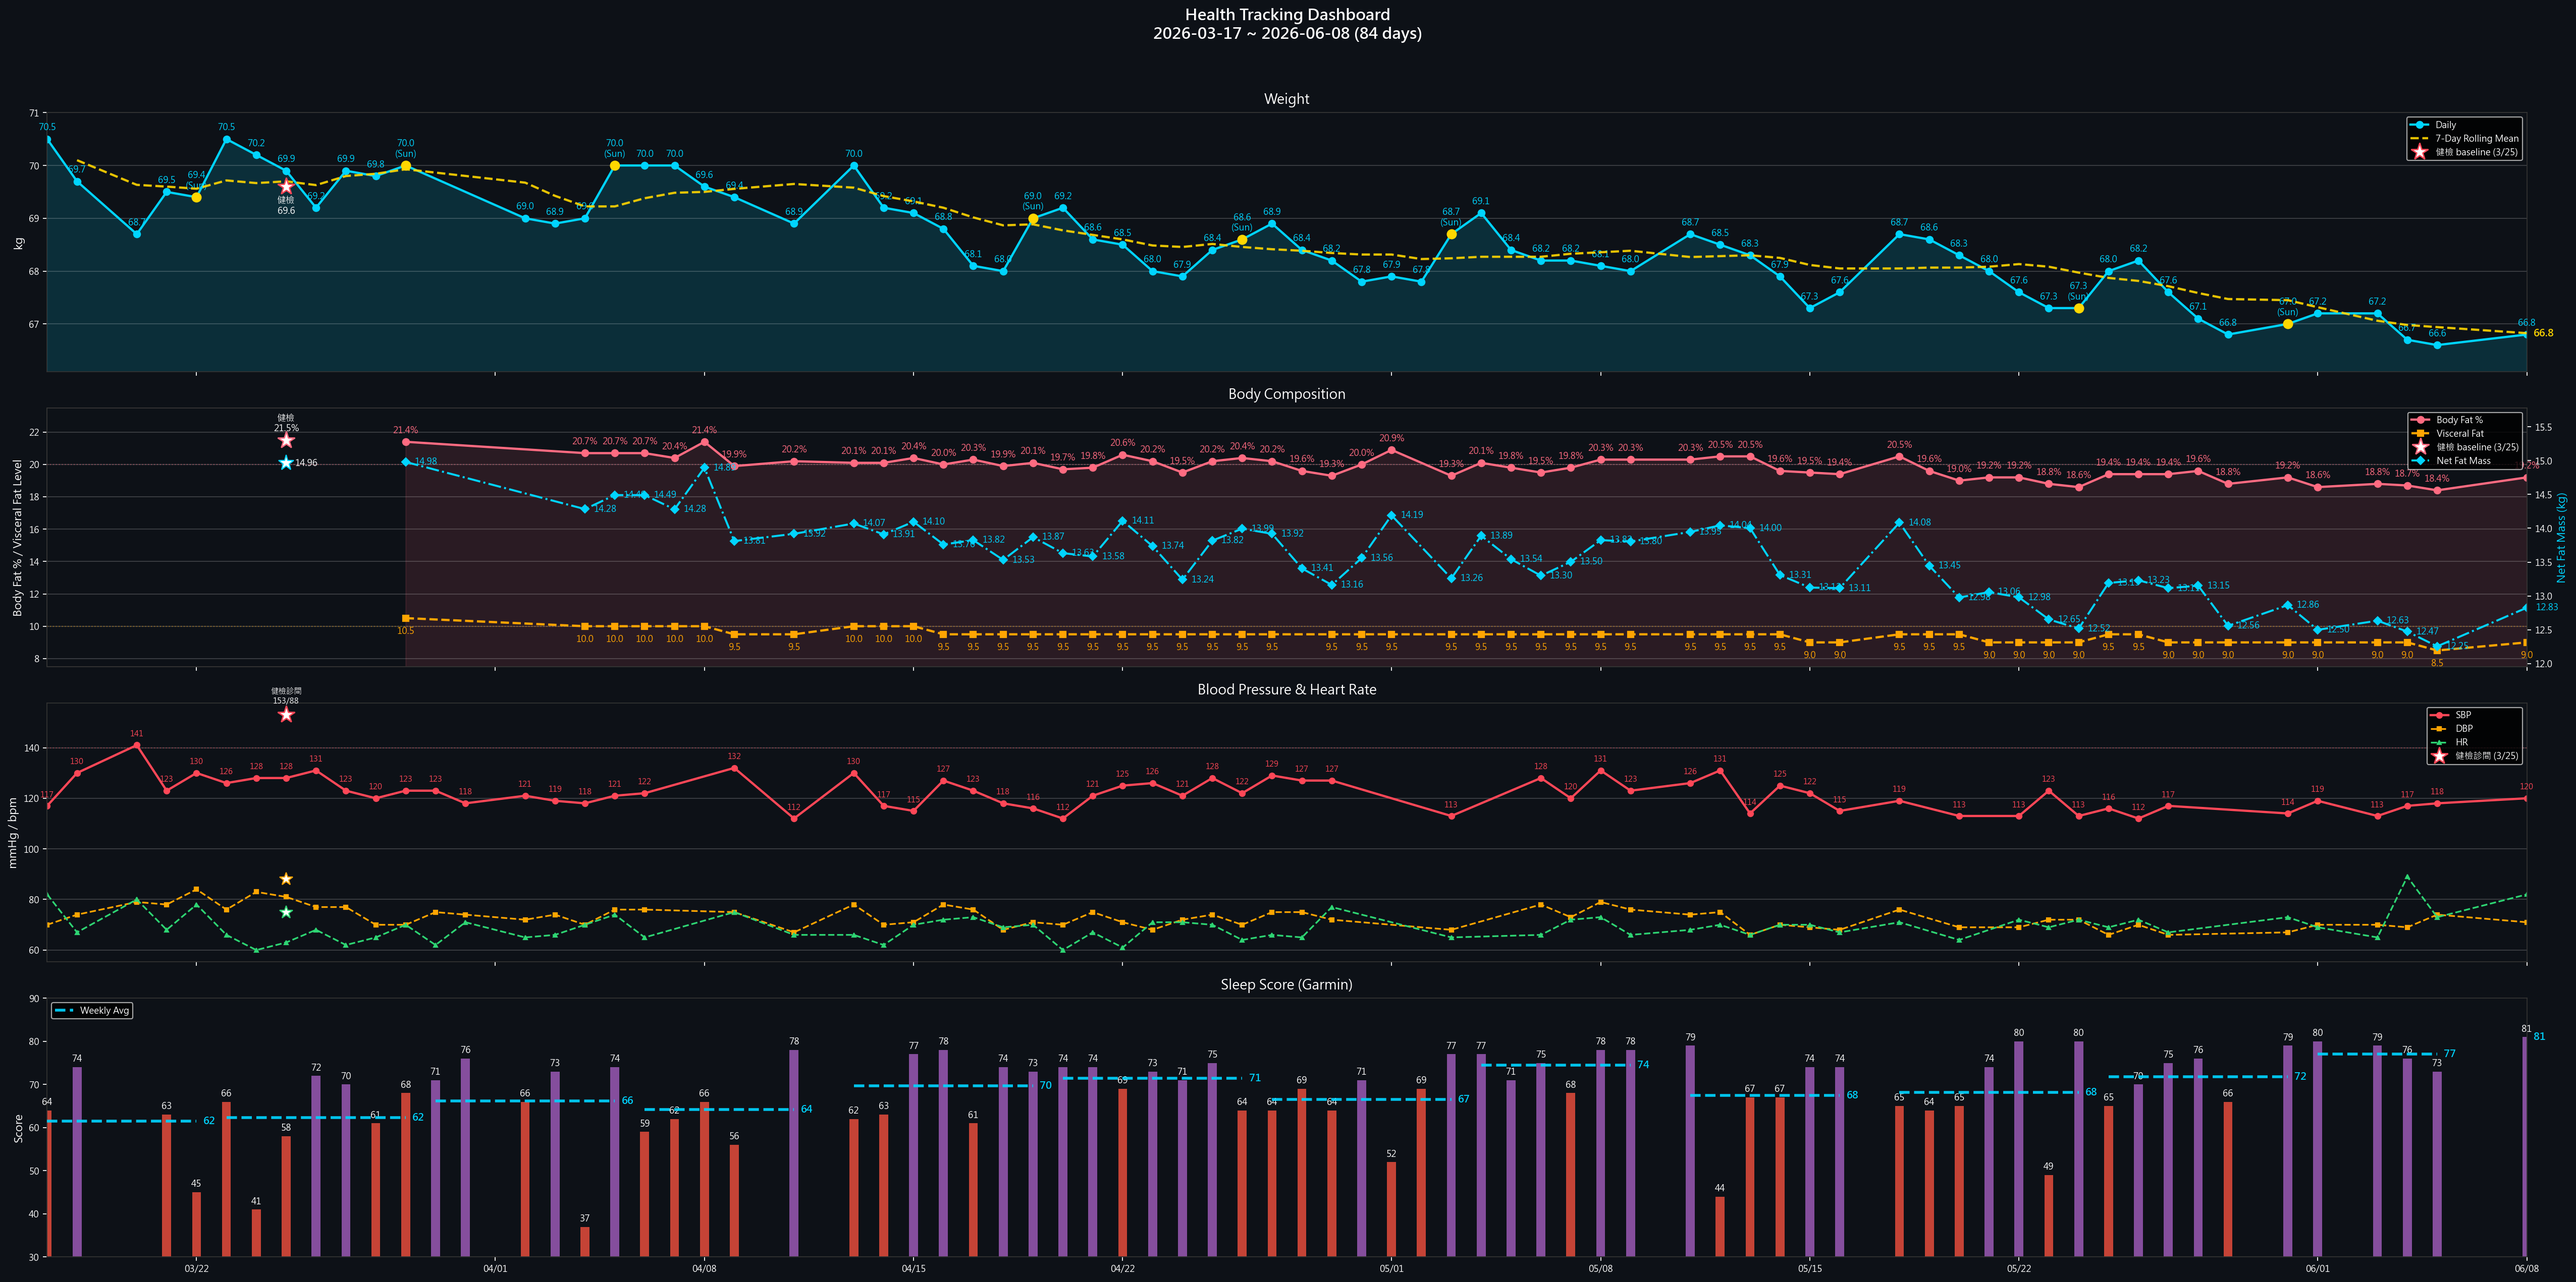
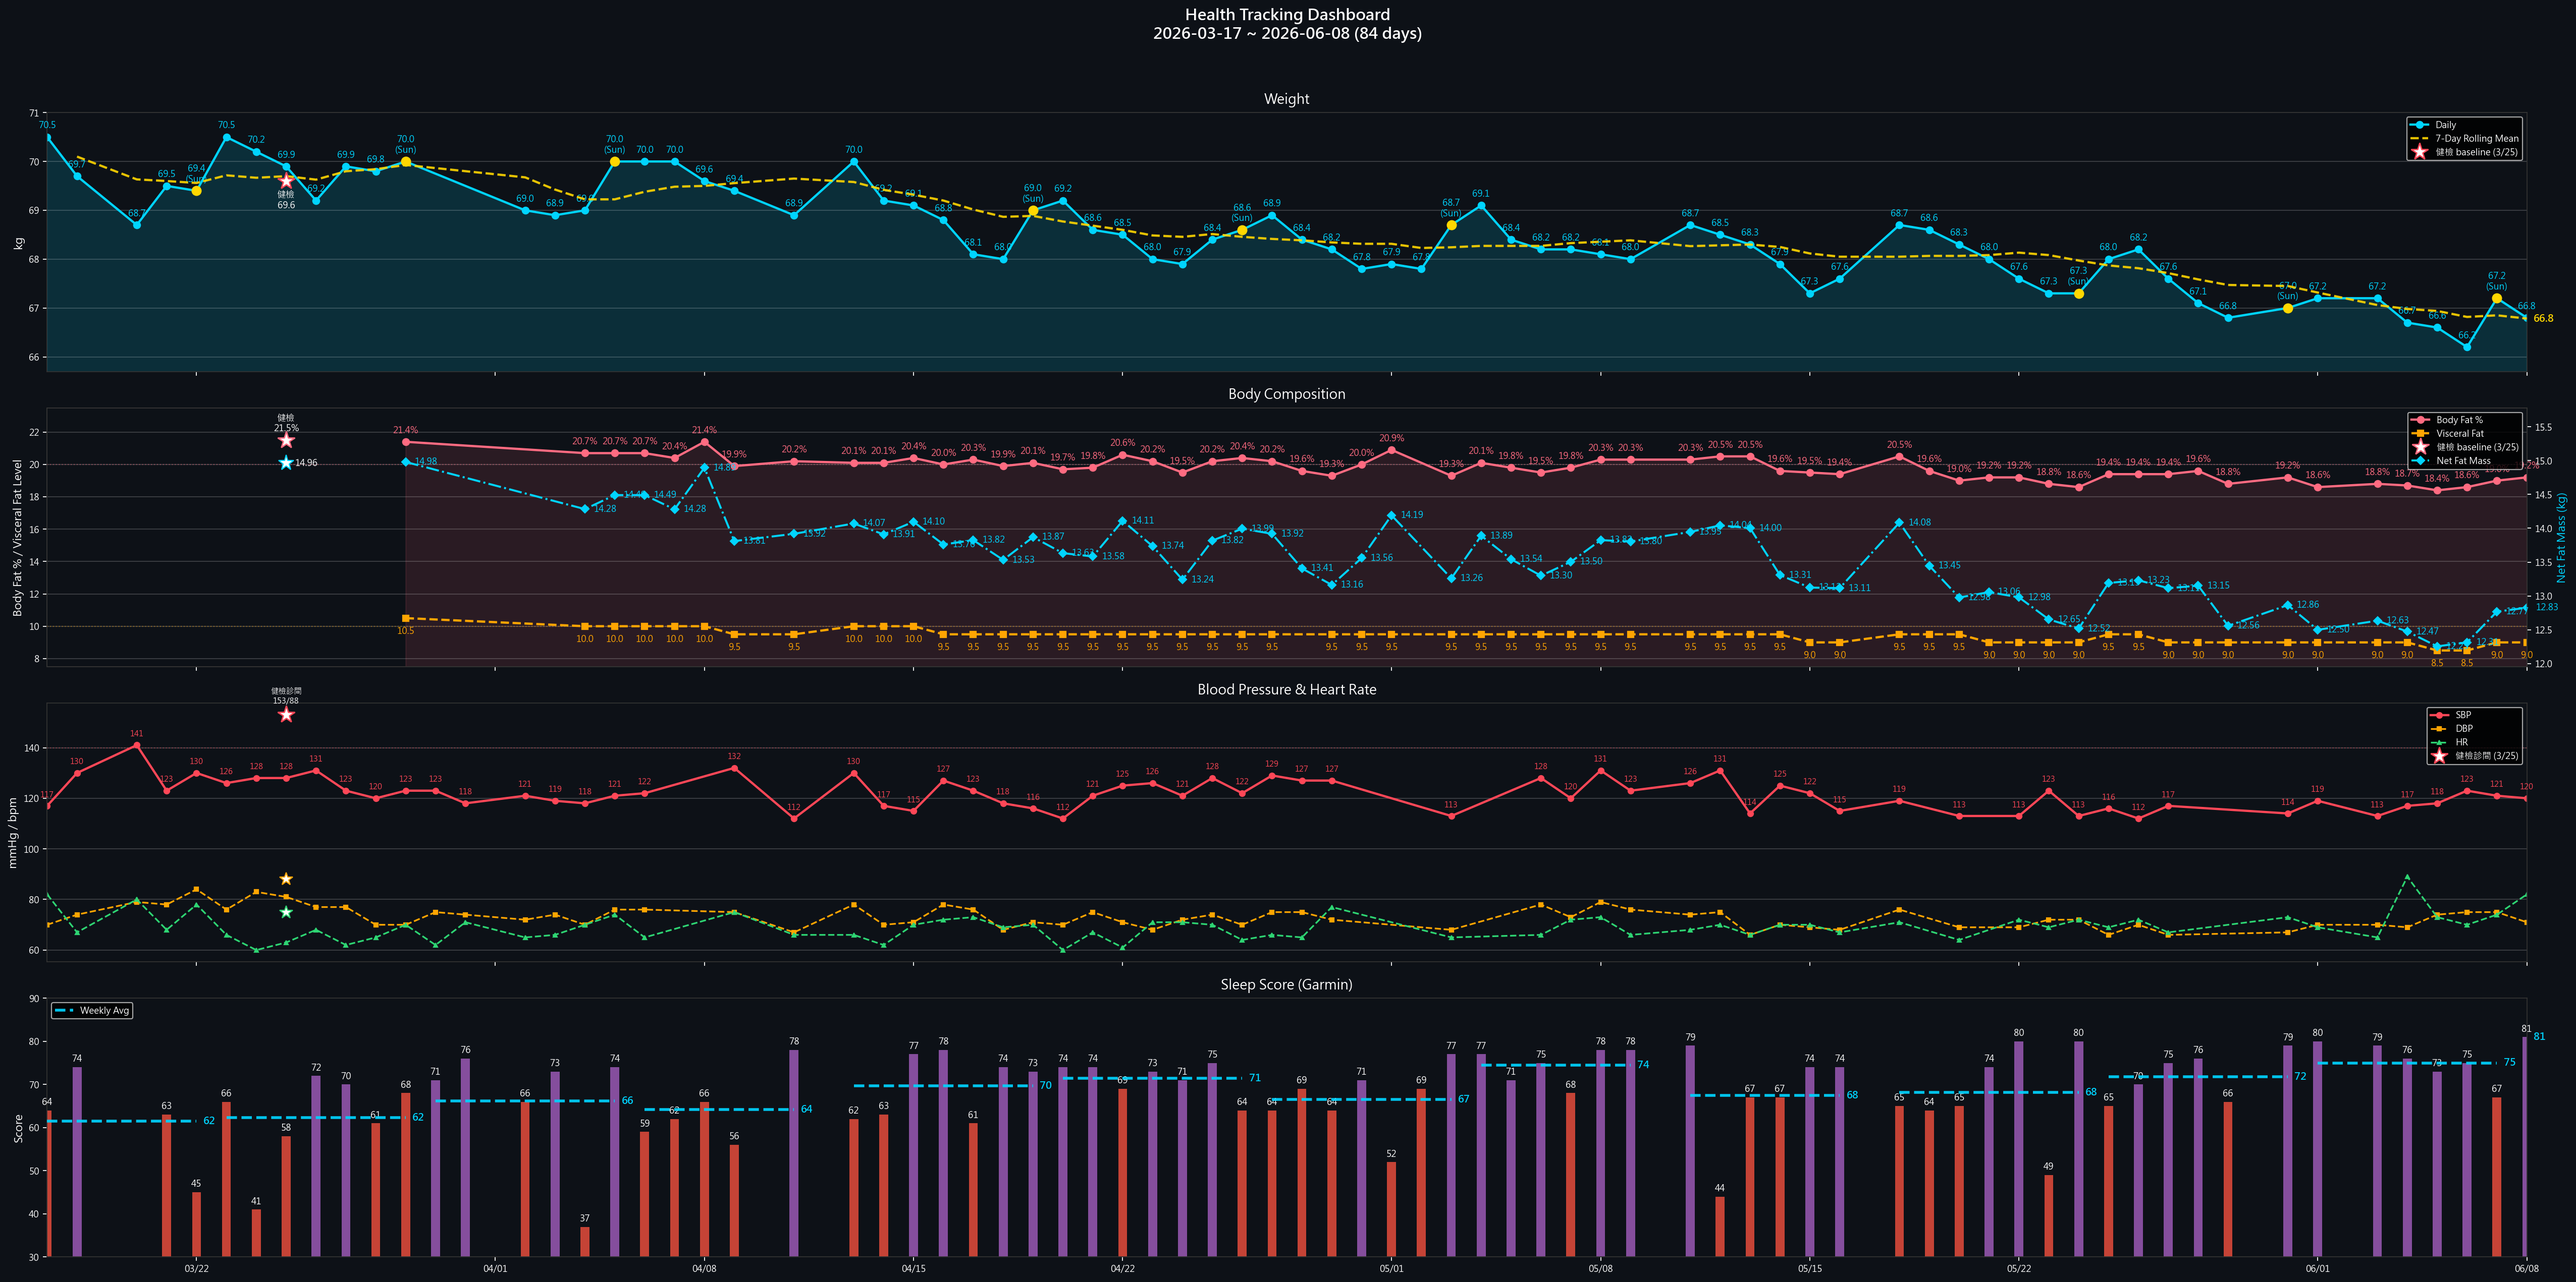
chore: regen dashboards + data.js after merge (06-06/07/08 完整資料)

Changed region(s): [[0.0312, 0.0932, 0.9969, 0.2797], [0.9034, 0.808, 0.9969, 0.9634]]

diff --git a/data.js b/data.js
@@ -17,12 +17,12 @@ window.HC_DATA = {
     lede:    { en: "Sleep, BP, lipids, uric acid — one shared metabolic root. Lifestyle stacks first; medication only after lifestyle plateaus.",
                zh: "睡眠、血壓、血脂、尿酸——共享同一個代謝根源。生活方式介入優先，等到效果平台期再考慮藥物。" },
     progressLbl: { en: "Weight progress · 70 → 65 kg", zh: "體重進度 · 70 → 65 公斤" },
-    progressMeta: { en: "Day 84 · 67.3 kg · Sat official (5/23)", zh: "第 84 天 · 67.3 公斤 · 週六正式（5/23）" },
+    progressMeta: { en: "Day 84 · 66.2 kg · Sat official (6/6)", zh: "第 84 天 · 66.2 公斤 · 週六正式（6/6）" },
     startDate: { en: "Start date · Mar 17, 2026 · Last sync 6/8", zh: "起始日期 · 2026 年 3 月 17 日 · 最後同步 6/8" },
     startWeight: 70,
     targetWeight: 65,
-    currentWeight: 67.3,
-    currentWeightDate: "5/23 Sat official",
+    currentWeight: 66.2,
+    currentWeightDate: "6/6 Sat official",
     // Body comp current actuals — latest daily reading (6/5). Manual for now:
     // sync_data_js.py does NOT yet populate these (only weight/BP/sleep). Update on daily check-in.
     currentBodyFat: 19.2,
@@ -54,8 +54,8 @@ window.HC_DATA = {
   markers: [
     {
       sys: "heart", name: { en: "Blood Pressure", zh: "血壓" },
-      val: "117/71", unit: "mmHg",
-      delta: { en: "W23 weekly avg (4 days) · target met (<130) · last 120/71 (6/8)", zh: "W23 週均（4 天）· 已達標 (<130) · 最新 120/71 (6/8)" },
+      val: "118/72", unit: "mmHg",
+      delta: { en: "W23 weekly avg (6 days) · target met (<130) · last 120/71 (6/8)", zh: "W23 週均（6 天）· 已達標 (<130) · 最新 120/71 (6/8)" },
       cadence: { en: "Daily · weekly avg", zh: "每日 · 週均" },
       status: "ok",
     },
@@ -68,8 +68,8 @@ window.HC_DATA = {
     },
     {
       sys: "weight", name: { en: "Weight", zh: "體重" },
-      val: "67.3", unit: "kg",
-      delta: { en: "5/23 Sat official · auto-synced", zh: "5/23 週六正式 · 自動同步" },
+      val: "66.2", unit: "kg",
+      delta: { en: "6/6 Sat official · auto-synced", zh: "6/6 週六正式 · 自動同步" },
       cadence: { en: "Daily · Sat official", zh: "每日 · 週六正式" },
       status: "ok",
     },
@@ -937,17 +937,17 @@ window.HC_DATA = {
   tracker: {
     // [SBP, DBP] — gaps filled with prior reading
     bp: [
-      [113,69], [123,72], [113,72], [116,66], [112,70], [117,66], [117,66], [117,66], [114,67], [119,70], [113,70], [117,69], [118,74], [120,71],
+      [113,72], [116,66], [112,70], [117,66], [117,66], [117,66], [114,67], [119,70], [113,70], [117,69], [118,74], [123,75], [121,75], [120,71],
     ],
     // daily weight (kg)
-    weight: [67.6, 67.3, 67.3, 68, 68.2, 67.6, 67.1, 66.8, 67, 67.2, 67.2, 66.7, 66.6, 66.8],
+    weight: [67.3, 68, 68.2, 67.6, 67.1, 66.8, 67, 67.2, 67.2, 66.7, 66.6, 66.2, 67.2, 66.8],
     // Garmin Sleep Score
-    sleep:  [80, 49, 80, 65, 70, 75, 76, 66, 79, 80, 79, 76, 73, 81],
+    sleep:  [80, 65, 70, 75, 76, 66, 79, 80, 79, 76, 73, 75, 67, 81],
     // Body Battery waking
-    bb:     [56, 34, 59, 55, 53, 64, 59, 55, 69, 71, 53, 41, 40, 41],
+    bb:     [59, 55, 53, 64, 59, 55, 69, 71, 53, 41, 40, 39, 29, 41],
     // SpO2 nightly nadir % (last 14 days, parallel to bp/weight/sleep/bb).
     // Earlier nights null until sync_data_js.py backfills; banner only uses trailing values.
-    spo2Nadir: [83, 84, null, null, 87, 93, 94, 91, 86, 89, 87, 92, 94, 90],
+    spo2Nadir: [null, null, 87, 93, 94, 91, 86, 89, 87, 92, 94, 85, null, 90],
   },
 
   // ===== Running — started 2026-04-26 =====
